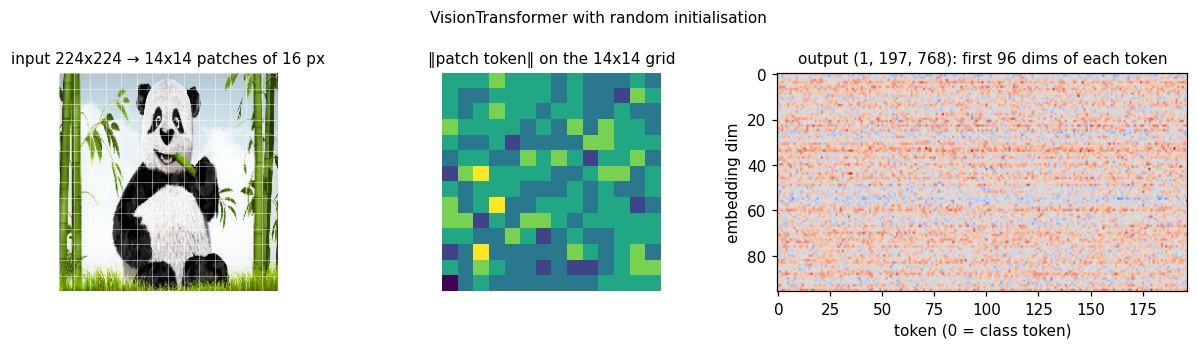
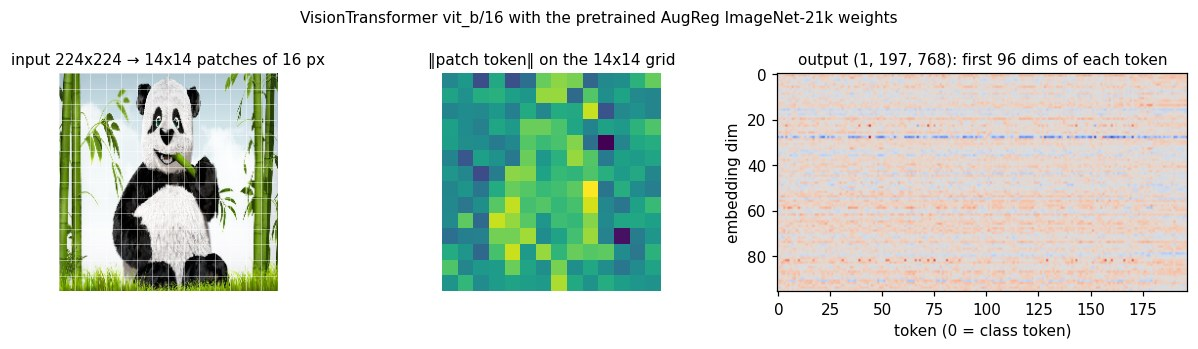
docs(models): fix review findings, run every snippet, pretrained ViT example
Review fixes (#4178): ViT is not architecture-only -- from_config(pretrained=True)
loads the AugReg ImageNet-21k weights, so the page, the models index, the "Run it"
snippet, the head recipe and the figure now use vit_b/16 pretrained; the constructor
knob is dropout_attn, not attention_dropout_rate; DexiNed lives in
kornia.models.dexined and EdgeDetectorBuilder returns (1, 1, H, W) maps; build()
ignores image_size= when given a model_name, so the RT-DETR snippet and text say so;
TinyViT 'in22k' needs num_classes=21841 or its head is zeroed; FaceDetector loads
YuNet when constructed; the head recipes carry their own imports; the SAM keypoint
comment spells out (K prompts, N points). The generator selects the Agg backend before
pyplot is imported, checks the ImageNet class list download, and its docstring no
longer claims the figure code is byte-identical to the page snippet.

Every Python block on the 14 pages was extracted and executed from a directory holding
the sample images; the legacy SAM walkthrough exposed two defects that are fixed here:
VisualPrompter.predict() with no prompt at all crashed inside the augmentation
container (library fix + test), and the example fed all three candidate logits back as
a mask prompt and read a `.masks` attribute that does not exist.

Claude-Session: https://claude.ai/code/session_014Mr9HVQEKfMe3F2TKR35EZ

diff --git a/docs/generate_model_examples.py b/docs/generate_model_examples.py
@@ -25,8 +25,9 @@ the resulting figures under ``docs/source/_static/img/models/``::
     python docs/generate_model_examples.py            # all models
     python docs/generate_model_examples.py loftr sold2  # a subset
 
-Each ``figure_<name>`` function contains the exact snippet shown on the corresponding page, so the
-figures stay in sync with the documented code.
+Each ``figure_<name>`` function runs the model the same way the corresponding page's "Run it" snippet
+does (same builder, weights, inputs and prompts) and then draws the result; keep the two in sync when
+either changes.
 """
 
 from __future__ import annotations
@@ -35,6 +36,9 @@ import sys
 from pathlib import Path
 
 import matplotlib as mpl
+
+mpl.use("Agg")  # select the headless backend before pyplot is imported
+
 import matplotlib.pyplot as plt
 import requests
 import torch
@@ -43,7 +47,6 @@ import kornia as K
 from kornia.image import tensor_to_image
 from kornia.io import get_sample_images
 
-mpl.use("Agg")
 torch.manual_seed(0)
 
 OUT = Path(__file__).absolute().parent / "source/_static/img/models"
@@ -71,7 +74,9 @@ def knchurch() -> tuple[torch.Tensor, torch.Tensor]:
 
 
 def imagenet_classes() -> list[str]:
-    return requests.get(IMAGENET_CLASSES, timeout=60).text.strip().splitlines()
+    response = requests.get(IMAGENET_CLASSES, timeout=60)
+    response.raise_for_status()
+    return response.text.strip().splitlines()
 
 
 def show(ax, img: torch.Tensor, title: str = "") -> None:
@@ -105,7 +110,7 @@ def figure_rt_detr() -> None:
     from kornia.contrib.object_detection import RTDETRDetectorBuilder
 
     image = sample("delorean.png")
-    detector = RTDETRDetectorBuilder.build("rtdetr_r18vd", image_size=640)
+    detector = RTDETRDetectorBuilder.build("rtdetr_r18vd")  # runs at the 640 px the weights were trained for
     detections = detector(image)  # one (D, 6) tensor per image: class id, score, x, y, w, h
 
     fig, axs = plt.subplots(1, 2, figsize=(9, 3.4))
@@ -151,7 +156,7 @@ def _sam_figure(model_type: str, name: str, title: str) -> None:
     prompter = VisualPrompter(SamConfig(model_type, pretrained=True))
     prompter.set_image(image)  # encode once, query many times
 
-    keypoints = Keypoints(torch.tensor([[[300.0, 90.0]]]))  # (K, N, 2) in (x, y): on the eye
+    keypoints = Keypoints(torch.tensor([[[300.0, 90.0]]]))  # (K, N, 2): K prompts of N (x, y) points; on the eye
     labels = torch.tensor([[1]])  # 1 = foreground, 0 = background
     box = Boxes.from_tensor(torch.tensor([[[180.0, 20.0, 380.0, 240.0]]]), mode="xyxy")  # around the head
     point_pred = prompter.predict(keypoints=keypoints, keypoints_labels=labels)  # 3 candidate masks
@@ -225,7 +230,7 @@ def figure_vit() -> None:
     from kornia.models.vit import VisionTransformer
 
     image = sample("panda.jpg", (224, 224))
-    vit = VisionTransformer(image_size=224, patch_size=16).eval()  # random init: no pretrained weights
+    vit = VisionTransformer.from_config("vit_b/16", pretrained=True).eval()  # AugReg ImageNet-21k weights
     with torch.no_grad():
         tokens = vit(image)  # (1, 197, 768): class token + 14x14 patch tokens
 
@@ -241,7 +246,7 @@ def figure_vit() -> None:
     axs[2].set_title("output (1, 197, 768): first 96 dims of each token", fontsize=10)
     axs[2].set_xlabel("token (0 = class token)")
     axs[2].set_ylabel("embedding dim")
-    fig.suptitle("VisionTransformer with random initialisation", fontsize=10)
+    fig.suptitle("VisionTransformer vit_b/16 with the pretrained AugReg ImageNet-21k weights", fontsize=10)
     fig.tight_layout()
     save(fig, "vit")
 
@@ -397,7 +402,7 @@ def figure_dexined() -> None:
     image = sample("girona.png")
     detector = EdgeDetectorBuilder.build("dexined", pretrained=True, image_size=352)  # resize + normalise + sigmoid
     with torch.no_grad():
-        edges = detector(image)[0]  # list of (1, H, W) edge probabilities in [0, 1], one per input image
+        edges = detector(image)[0]  # list of (1, 1, H, W) edge probabilities in [0, 1], one per input image
 
     fig, axs = plt.subplots(1, 2, figsize=(9, 3.2))
     show(axs[0], image, "input")

diff --git a/tests/contrib/test_visual_prompter.py b/tests/contrib/test_visual_prompter.py
@@ -80,6 +80,18 @@ class TestVisualPrompter(BaseTester):
 
         assert results.logits.shape == (batch_size, 3, 256, 256)
 
+    @pytest.mark.slow
+    def test_predict_without_prompts(self, device, dtype):
+        if dtype not in (torch.float32, torch.float16):
+            pytest.skip("VisualPrompter (SAM) primarily supports float32 and float16")
+        prompter = VisualPrompter(SamConfig("mobile_sam"), device=device, dtype=dtype)
+        prompter.set_image(torch.rand(3, 256, 256, device=device, dtype=dtype))
+
+        results = prompter.predict(multimask_output=True)  # no keypoints, boxes or masks
+
+        assert results.logits.shape == (1, 3, 256, 256)
+        assert results.scores.shape == (1, 3)
+
     def test_gradcheck(self, device):
         pytest.skip("Gradcheck is not currently applicable for VisualPrompter inference.")
 

diff --git a/kornia/contrib/visual_prompter.py b/kornia/contrib/visual_prompter.py
@@ -239,7 +239,9 @@ class VisualPrompter:
         if isinstance(masks, torch.Tensor):
             self._valid_masks(masks)
 
-        data = self._transform_prompts(*to_transform, data_keys=data_keys)
+        # No prompt at all is a valid query (SAM then predicts from the image embedding alone); the
+        # augmentation container cannot be called with nothing to transform.
+        data = self._transform_prompts(*to_transform, data_keys=data_keys) if to_transform else {}
 
         if "keypoints" in data and isinstance(data["keypoints"], Keypoints):
             kpts_tensor = data["keypoints"].to_tensor()

diff --git a/docs/source/models/vit.rst b/docs/source/models/vit.rst
@@ -8,9 +8,11 @@ Vision Transformer (ViT)
 :bdg-primary:`Image classification` :bdg-secondary:`Apache-2.0`
 
 :class:`~kornia.models.vit.VisionTransformer` is a plain ViT encoder: the image is cut into ``patch_size`` squares,
-each patch becomes a token, a class token is prepended and a stack of transformer blocks mixes them. The module
-ships as an **architecture only** (no pretrained weights, no classification head) and returns one embedding per token,
-``(B, 1 + N, embed_dim)``, with the class token first.
+each patch becomes a token, a class token is prepended and a stack of transformer blocks mixes them. It returns
+one embedding per token, ``(B, 1 + N, embed_dim)``, with the class token first, and has **no classification head**.
+``VisionTransformer.from_config(..., pretrained=True)`` loads the AugReg ImageNet-21k weights for ``vit_ti/16``,
+``vit_s/16``, ``vit_s/32``, ``vit_b/16``, ``vit_b/32`` and ``vit_l/16``; the plain constructor gives a randomly
+initialised model of any size.
 
 Run it
 ------
@@ -18,44 +20,48 @@ Run it
 .. code-block:: python
 
     import torch
+    from kornia.io import load_image
+    from kornia.geometry import resize
     from kornia.models.vit import VisionTransformer
 
-    vit = VisionTransformer(image_size=224, patch_size=16)  # ViT-B/16 layout, random init
+    image = resize(load_image("panda.jpg")[None], (224, 224))  # (1, 3, 224, 224) float in [0, 1]
 
-    image = torch.rand(1, 3, 224, 224)
-    tokens = vit(image)  # (1, 197, 768): class token + 14×14 patch tokens
+    vit = VisionTransformer.from_config("vit_b/16", pretrained=True).eval()  # AugReg ImageNet-21k weights
+    with torch.no_grad():
+        tokens = vit(image)  # (1, 197, 768): class token + 14×14 patch tokens
     cls, patches = tokens[:, 0], tokens[:, 1:]  # (1, 768) and (1, 196, 768)
 
 .. figure:: /_static/img/models/vit.jpg
    :align: center
    :alt: A panda photo with the 16-pixel patch grid drawn on it, a 14x14 heatmap of patch-token norms, and a heatmap of the output token embeddings.
 
-   The 14×14 patch grid a 224 px image is split into, the norm of each output patch token on that grid, and the
-   first 96 dimensions of all 197 output tokens. The weights are randomly initialised, so the values are not
-   meaningful until you train the model or load a checkpoint.
+   The 14×14 patch grid a 224 px image is split into, the norm of each output patch token of the pretrained
+   ``vit_b/16`` on that grid, and the first 96 dimensions of all 197 output tokens.
 
 Add a head
 ----------
 
-A classifier reads the class token and adds a linear layer:
+A classifier reads the class token and adds a linear layer on top of the pretrained encoder:
 
 .. code-block:: python
 
     import torch.nn as nn
+    from kornia.models.vit import VisionTransformer
 
 
     class Classifier(nn.Module):
         def __init__(self, num_classes: int = 1000) -> None:
             super().__init__()
-            self.backbone = VisionTransformer(image_size=224, patch_size=16)
-            self.head = nn.Linear(768, num_classes)  # 768 is the default embed_dim
+            self.backbone = VisionTransformer.from_config("vit_b/16", pretrained=True)
+            self.head = nn.Linear(768, num_classes)  # 768 is the embed_dim of the base models
 
         def forward(self, x):
             return self.head(self.backbone(x)[:, 0])  # (B, num_classes) from the class token
 
 The same pattern gives multi-task or dense heads: keep the class token for image-level outputs, or reshape the
-196 patch tokens back to a ``14 × 14`` map for detection and segmentation necks. The constructor exposes
-``embed_dim``, ``depth``, ``num_heads``, ``dropout_rate`` and ``attention_dropout_rate`` to size the model.
+196 patch tokens back to a ``14 × 14`` map for detection and segmentation necks. To build a model of another size
+from scratch, ``VisionTransformer(image_size, patch_size, embed_dim, depth, num_heads, dropout_rate, dropout_attn)``
+exposes the layout directly.
 
 Paper
 -----

diff --git a/docs/source/models/rt_detr.rst b/docs/source/models/rt_detr.rst
@@ -20,7 +20,7 @@ Run it
 
     image = load_image("delorean.png")[None]  # (1, 3, H, W) float in [0, 1]
 
-    detector = RTDETRDetectorBuilder.build("rtdetr_r18vd", image_size=640)  # downloads the COCO weights
+    detector = RTDETRDetectorBuilder.build("rtdetr_r18vd")  # downloads the COCO weights; runs at 640 px
     detections = detector(image)  # list with one (D, 6) tensor per image: class id, score, x, y, w, h
 
     for class_id, score, x, y, w, h in detections[0].tolist():
@@ -30,7 +30,7 @@ Run it
    :align: center
    :alt: A photo of a car (left) and the same photo with two RT-DETR detections drawn as green boxes with class id and score (right).
 
-   Input image and the boxes returned by ``rtdetr_r18vd`` at ``image_size=640``, drawn with the detected class id
+   Input image and the boxes returned by ``rtdetr_r18vd``, drawn with the detected class id
    (COCO id 2 is *car*) and confidence. Figures on these pages are rendered by ``docs/generate_model_examples.py``.
 
 Detections are filtered with ``confidence_threshold=0.3`` by default; pass a different value to ``build`` to keep
@@ -38,8 +38,9 @@ more or fewer boxes. ``detector.visualize(image, detections, output_type="pil")`
 ``detector.to_onnx("rtdetr-640.onnx", image_size=640)`` exports the model together with its pre- and post-processing.
 
 Available variants, from fastest to most accurate: ``rtdetr_r18vd``, ``rtdetr_r34vd``, ``rtdetr_r50vd_m``,
-``rtdetr_r50vd`` and ``rtdetr_r101vd``. Recommended input scales are multiples of 32 between 480 and 800; ``640`` is
-the value the weights were trained for.
+``rtdetr_r50vd`` and ``rtdetr_r101vd``. When ``build`` is given a ``model_name`` it always resizes the input to the
+640 px the weights were trained for and ignores ``image_size=``; that argument only applies together with a
+``config=`` object, where multiples of 32 between 480 and 800 are recommended.
 
 Paper
 -----

diff --git a/docs/source/models/dexined.rst b/docs/source/models/dexined.rst
@@ -9,8 +9,8 @@ DexiNed
 
 DexiNed is a dense inception-style network that predicts thin, well-localised edges and was trained from scratch
 on the BIPED edge dataset. The quickest way to run it is
-:class:`~kornia.contrib.edge_detection.EdgeDetectorBuilder`, which wraps ``kornia.filters.DexiNed`` with
-the resize, normalisation and sigmoid it expects and resizes the edge map back to the input size.
+:class:`~kornia.contrib.edge_detection.EdgeDetectorBuilder`, which wraps :class:`~kornia.models.dexined.DexiNed`
+with the resize, normalisation and sigmoid it expects and resizes the edge map back to the input size.
 
 Run it
 ------
@@ -25,7 +25,7 @@ Run it
 
     detector = EdgeDetectorBuilder.build("dexined", pretrained=True, image_size=352)  # runs the net at 352 px
     with torch.no_grad():
-        edges = detector(image)[0]  # (1, H, W) edge probabilities in [0, 1], one per input image
+        edges = detector(image)[0]  # (1, 1, H, W) edge probabilities in [0, 1], one per input image
 
 .. figure:: /_static/img/models/dexined.jpg
    :align: center
@@ -34,7 +34,7 @@ Run it
    The input image and its DexiNed edge probability map (dark = edge).
 
 The detector accepts a batch tensor or a list of ``(3, H, W)`` images of different sizes and returns one edge map
-per image. To use the bare network, ``kornia.filters.DexiNed`` takes a ``(B, 3, H, W)`` input scaled to
+per image. To use the bare network, :class:`~kornia.models.dexined.DexiNed` takes a ``(B, 3, H, W)`` input scaled to
 ``[0, 255]`` and mean-subtracted and returns the fused edge logits; ``EdgeDetectorBuilder`` also exposes
 ``to_onnx()`` for export.
 

diff --git a/docs/source/models/segment_anything.rst b/docs/source/models/segment_anything.rst
@@ -29,7 +29,7 @@ Run it
     prompter.set_image(image)  # encode once, query many times
 
     # a foreground point (label 1; 0 would be background) -> three candidate masks
-    keypoints = Keypoints(torch.tensor([[[300.0, 90.0]]]))  # (K, N, 2) in (x, y) pixels
+    keypoints = Keypoints(torch.tensor([[[300.0, 90.0]]]))  # (K, N, 2): K prompts of N (x, y) points, in pixels
     prediction = prompter.predict(keypoints=keypoints, keypoints_labels=torch.tensor([[1]]))
     best = prediction.binary_masks[0, prediction.scores.argmax()]  # (H, W) bool, highest predicted IoU
 
@@ -171,14 +171,16 @@ can be used to query the SAM model for image masks.
     )
 
     #------------------------------------------------
-    # or run the prediction using the previous logits
+    # or run the prediction using the previous logits as a mask prompt: one (K, 1, 256, 256)
+    # low-resolution mask per query, so pick the candidate with the best predicted IoU
+    best = prediction.scores[0].argmax()
     prediction = prompter.predict(
-        masks=prediction.logits,
+        masks=prediction.logits[:, best : best + 1],
         multimask_output=True,
     )
 
-    # The `prediction` is a SegmentationResults dataclass with the masks, scores and logits
-    print(prediction.masks.shape)
+    # The `prediction` is a SegmentationResults dataclass with the logits, scores and thresholded binary masks
+    print(prediction.binary_masks.shape)
     print(prediction.scores)
     print(prediction.logits.shape)
 

diff --git a/docs/source/models/index.rst b/docs/source/models/index.rst
@@ -5,8 +5,8 @@ Kornia Models
    :description: The deep learning models shipped with Kornia, grouped by task, with their papers, tasks and licences: RT-DETR, YuNet, Segment Anything, MobileSAM, EfficientViT, ViT, MobileViT, TinyViT, LoFTR, HardNet, AffNet, SOLD2, DexiNed and DeFMO.
 
 Kornia ships a curated set of model architectures, each wrapped as a regular ``nn.Module``. Most of them come with
-pretrained weights that are downloaded on first use; ViT and MobileViT ship as architectures only, for training or
-for loading your own checkpoint. Each page below opens with the shortest script that runs the model, shows what it
+pretrained weights that are downloaded on first use; MobileViT ships as an architecture only, for training or for
+loading your own checkpoint. Each page below opens with the shortest script that runs the model, shows what it
 returns on a real input, and ends with the paper. The builders that construct the models are documented on the
 :doc:`kornia.models </models>` API page, and the local-feature models under :doc:`kornia.feature </feature>`.
 

diff --git a/docs/source/models/tiny_vit.rst b/docs/source/models/tiny_vit.rst
@@ -36,9 +36,12 @@ Run it
 
    Top-5 ImageNet classes predicted by TinyViT-5M for the input on the left.
 
-``pretrained`` also accepts ``'in22k'`` (ImageNet-22k features without the 1k head) and, for ``'21m'``, the
-higher-resolution ``'in1k_384'`` and ``'in1k_512'`` checkpoints; pass ``img_size=`` to run at another resolution
-and the attention biases are interpolated.
+``pretrained`` also accepts ``'in22k'`` and, for ``'21m'``, the higher-resolution ``'in1k_384'`` and
+``'in1k_512'`` checkpoints; pass ``img_size=`` to run at another resolution and the attention biases are
+interpolated. The ImageNet-22k checkpoint carries a 21841-class head, so load it with
+``TinyViT.from_config("5m", pretrained="in22k", num_classes=21841)``: with the default ``num_classes=1000`` the
+head does not match, is reset to zeros with a warning and the model returns all-zero logits. For feature extraction
+replace the head instead: ``model.head = torch.nn.Identity()`` makes the model return the pooled embedding.
 
 Paper
 -----

diff --git a/CHANGELOG.md b/CHANGELOG.md
@@ -147,6 +147,9 @@ and this project adheres to [Semantic Versioning](https://semver.org/spec/v2.0.0
 
 ### Bug fixes
 
+* `VisualPrompter.predict()` called without any prompt (the "run the prediction without prompts" example on the
+  Segment Anything page) raised `TypeError: object of type 'NoneType' has no len()` from the prompt augmentation
+  container; it now predicts from the image embedding alone, as documented. (#4178)
 * Follow-up fixes to the documentation revamp (#4155): the landing page's filtering card quoted the combined
   `filters`/`color`/`enhance`/`morphology` count next to a `kornia.filters` label, the "Why Kornia?" hero carousel
   resumed after a visitor picked a tab, the Community page linked to the now-unregistered `librecv.org`, and the

diff --git a/docs/source/models/mobile_sam.rst b/docs/source/models/mobile_sam.rst
@@ -27,7 +27,7 @@ Run it
     prompter = VisualPrompter(SamConfig("mobile_sam", pretrained=True))  # ~40 MB checkpoint
     prompter.set_image(image)  # encode once, query many times
 
-    keypoints = Keypoints(torch.tensor([[[300.0, 90.0]]]))  # (K, N, 2) in (x, y) pixels
+    keypoints = Keypoints(torch.tensor([[[300.0, 90.0]]]))  # (K, N, 2): K prompts of N (x, y) points, in pixels
     prediction = prompter.predict(keypoints=keypoints, keypoints_labels=torch.tensor([[1]]))  # 1 = foreground
     best = prediction.binary_masks[0, prediction.scores.argmax()]  # (H, W) bool
 

diff --git a/docs/source/models/yunet.rst b/docs/source/models/yunet.rst
@@ -22,7 +22,7 @@ Run it
 
     image = load_image("crowd.jpg")[None] * 255.0  # (1, 3, H, W); YuNet expects pixel values in [0, 255]
 
-    detector = FaceDetector()  # downloads the weights on first use
+    detector = FaceDetector()  # downloads the YuNet weights when constructed
     faces = [FaceDetectorResult(f) for f in detector(image)[0]]  # one result per detected face
 
     for face in faces:
